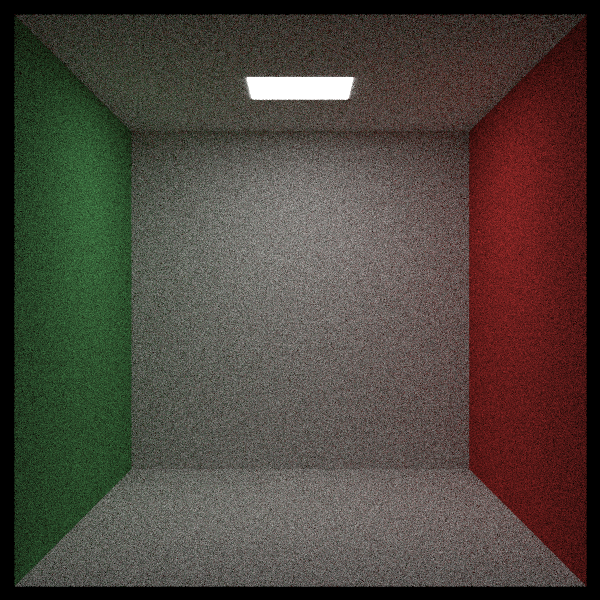
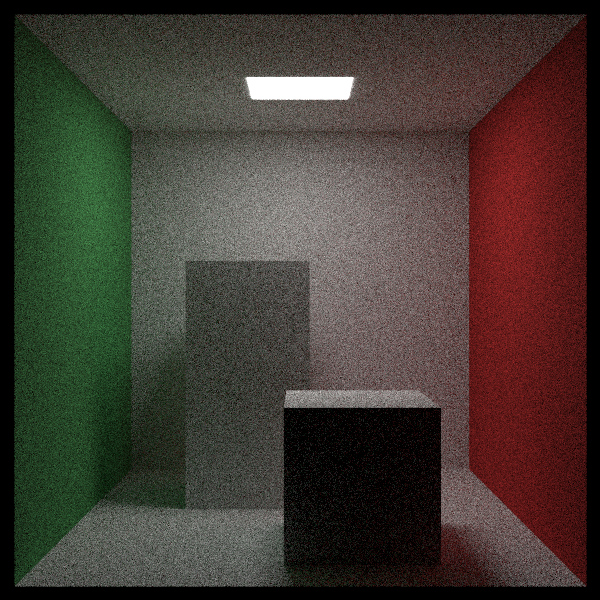
Cornell box with two blocks

diff --git a/quad.h b/quad.h
@@ -4,11 +4,12 @@
 #include "rt_constants.h"
 
 #include "hittable.h"
+#include "hittable_list.h"
 
 class quad : public hittable {
 public:
-     __device__ quad(const point3 &Q, const point3 &u, const point3 &v, material *mat)
-            : Q(Q), u(u), v(v), mat(mat) {
+    __device__ quad(const point3 &Q, const point3 &u, const point3 &v, material *mat)
+        : Q(Q), u(u), v(v), mat(mat) {
         // 平面方程：Ax + By + Cz = D，需要确定四个系数 A, B, C, D
         // 令 normal 为 (A, B, C)，代表平面法线，由两个边向量 u, v 叉乘得出
         auto n = cross(u, v);
@@ -21,14 +22,14 @@ public:
         set_bounding_box();
     }
 
-     __device__ virtual void set_bounding_box() {
+    __device__ virtual void set_bounding_box() {
         // Compute the bounding box of all four vertices.
         auto bbox_diagonal1 = aabb(Q, Q + u + v);
         auto bbox_diagonal2 = aabb(Q + u, Q + v);
         bbox = aabb(bbox_diagonal1, bbox_diagonal2);
     }
 
-     __device__ bool hit(const ray &r, interval ray_t, hit_record &rec) const override {
+    __device__ bool hit(const ray &r, interval ray_t, hit_record &rec) const override {
         /*
         * 由 ray.h 中的 R(t) = P + td 和 normal · Q = D
         * 得 n · (P + td) = D，求解 t，即交点
@@ -76,7 +77,7 @@ public:
         return true;
     }
 
-     __device__ virtual bool is_interior(float a, float b, hit_record &rec) const {
+    __device__ virtual bool is_interior(float a, float b, hit_record &rec) const {
         interval unit_interval = interval(0, 1);
         // Given the hit point in plane coordinates, return false if it is outside the
         // primitive, otherwise set the hit record UV coordinates and return true.
@@ -89,15 +90,15 @@ public:
         return true;
     }
 
-     __device__ aabb bounding_box() const override { return bbox; }
+    __device__ aabb bounding_box() const override { return bbox; }
 
-     __device__ void print() const override {
+    __device__ void print() const override {
         printf("%f %f %f\n", bbox.x.min, bbox.y.min, bbox.z.min);
     }
 
     __device__ hittable *get_left_child() const override {
-         return nullptr;
-     }
+        return nullptr;
+    }
 
     __device__ hittable *get_right_child() const override {
         return nullptr;
@@ -115,4 +116,21 @@ private:
     float D;
 };
 
+// Returns the 3D box (six sides) that contains the two opposite vertices a & b.
+__device__ inline void add_box(hittable_list *list, const point3 &a, const point3 &b, material *mat) {
+    // Construct the two opposite vertices with the minimum and maximum coordinates.
+    auto min = point3(std::fmin(a.x(), b.x()), std::fmin(a.y(), b.y()), std::fmin(a.z(), b.z()));
+    auto max = point3(std::fmax(a.x(), b.x()), std::fmax(a.y(), b.y()), std::fmax(a.z(), b.z()));
+
+    auto dx = vec3(max.x() - min.x(), 0.0f, 0.0f);
+    auto dy = vec3(0.0f, max.y() - min.y(), 0.0f);
+    auto dz = vec3(0.0f, 0.0f, max.z() - min.z());
+
+    list->add(new quad(point3(min.x(), min.y(), max.z()), dx, dy, mat)); // front
+    list->add(new quad(point3(max.x(), min.y(), max.z()), -dz, dy, mat)); // right
+    list->add(new quad(point3(max.x(), min.y(), min.z()), -dx, dy, mat)); // back
+    list->add(new quad(point3(min.x(), min.y(), min.z()), dz, dy, mat)); // left
+    list->add(new quad(point3(min.x(), max.y(), max.z()), dx, -dz, mat)); // top
+    list->add(new quad(point3(min.x(), min.y(), min.z()), dx, dz, mat)); // bottom
+}
 #endif // QUAD_H

diff --git a/hittable_list.h b/hittable_list.h
@@ -8,38 +8,46 @@
 class hittable_list : public hittable {
 public:
     hittable **objects;
-    int size;
-    int allocated_size;
+    int list_size;   // 已分配的容量
+    int allocated_size; // 数组容量上限
 
-    __device__ hittable_list(): objects(new hittable *[1]), size(0), allocated_size(1) {
+    __device__ hittable_list(): objects(new hittable *[1]), list_size(0), allocated_size(1) {
     }
 
-    __device__ hittable_list(hittable **objects, int size): objects(objects), size(size), allocated_size(size) {
+    __device__ hittable_list(hittable **objects, int size): objects(objects), list_size(size), allocated_size(size) {
     }
 
     __device__ void add(hittable *object) {
-        if (allocated_size <= size) {
-            hittable **new_objects = new hittable *[size * 2];
-            for (int i = 0; i < size; i++) {
+        // 数组扩容
+        if (allocated_size <= list_size) {
+            allocated_size = list_size * 2;
+            hittable **new_objects = new hittable *[allocated_size];
+            for (int i = 0; i < list_size; i++) {
                 new_objects[i] = objects[i];
             }
             objects = new_objects;
-            allocated_size = size * 2;
         }
-        objects[size++] = object;
+
+        objects[list_size++] = object;
         bbox = aabb(bbox, object->bounding_box());
     }
 
+    // deprecated
+    // __device__ void add(hittable_list *object, int size) {
+    //     for (int i = 0; i < size; i++)
+    //         add(object->objects[i]);
+    // }
+
     __device__ void remove(int index) {
-        if (index < 0 || index >= size)
+        if (index < 0 || index >= list_size)
             return;
 
-        if (index != size - 1) {
-            for (int i = index; i < size - 1; i++) {
+        if (index != list_size - 1) {
+            for (int i = index; i < list_size - 1; i++) {
                 objects[i] = objects[i + 1];
             }
         }
-        size--;
+        list_size--;
     }
 
     __device__ bool hit(const ray &r, interval ray_t, hit_record &rec) const override {
@@ -47,7 +55,7 @@ public:
         bool hit_anything = false;
         float closest_so_far = ray_t.max;
 
-        for (int i = 0; i < size; i++) {
+        for (int i = 0; i < list_size; i++) {
             if (objects[i]->hit(r, interval(ray_t.min, closest_so_far), temp_rec)) {
                 hit_anything = true;
                 closest_so_far = temp_rec.t;
@@ -61,7 +69,7 @@ public:
     __device__ aabb bounding_box() const override { return bbox; }
 
     __device__ void print() const override {
-        for (int i = 0; i < size; i++) {
+        for (int i = 0; i < list_size; i++) {
             printf("%f %f %f\n", objects[i]->bounding_box().x.min, objects[i]->bounding_box().y.min,
                    objects[i]->bounding_box().z.min);
         }

diff --git a/bvh.h b/bvh.h
@@ -32,7 +32,7 @@ __device__ void bubble_sort(hittable **h, size_t start, size_t end, int index) {
 class bvh_node : public hittable {
 public:
     __device__ bvh_node(hittable_list **list): bvh_node(
-        list[0]->objects, 0, list[0]->size) {
+        list[0]->objects, 0, list[0]->list_size) {
         // There's a C++ subtlety here. This constructor (without span indices) creates an
         // implicit copy of the hittable list, which we will modify. The lifetime of the copied
         // list only extends until this constructor exits. That's OK, because we only need to
